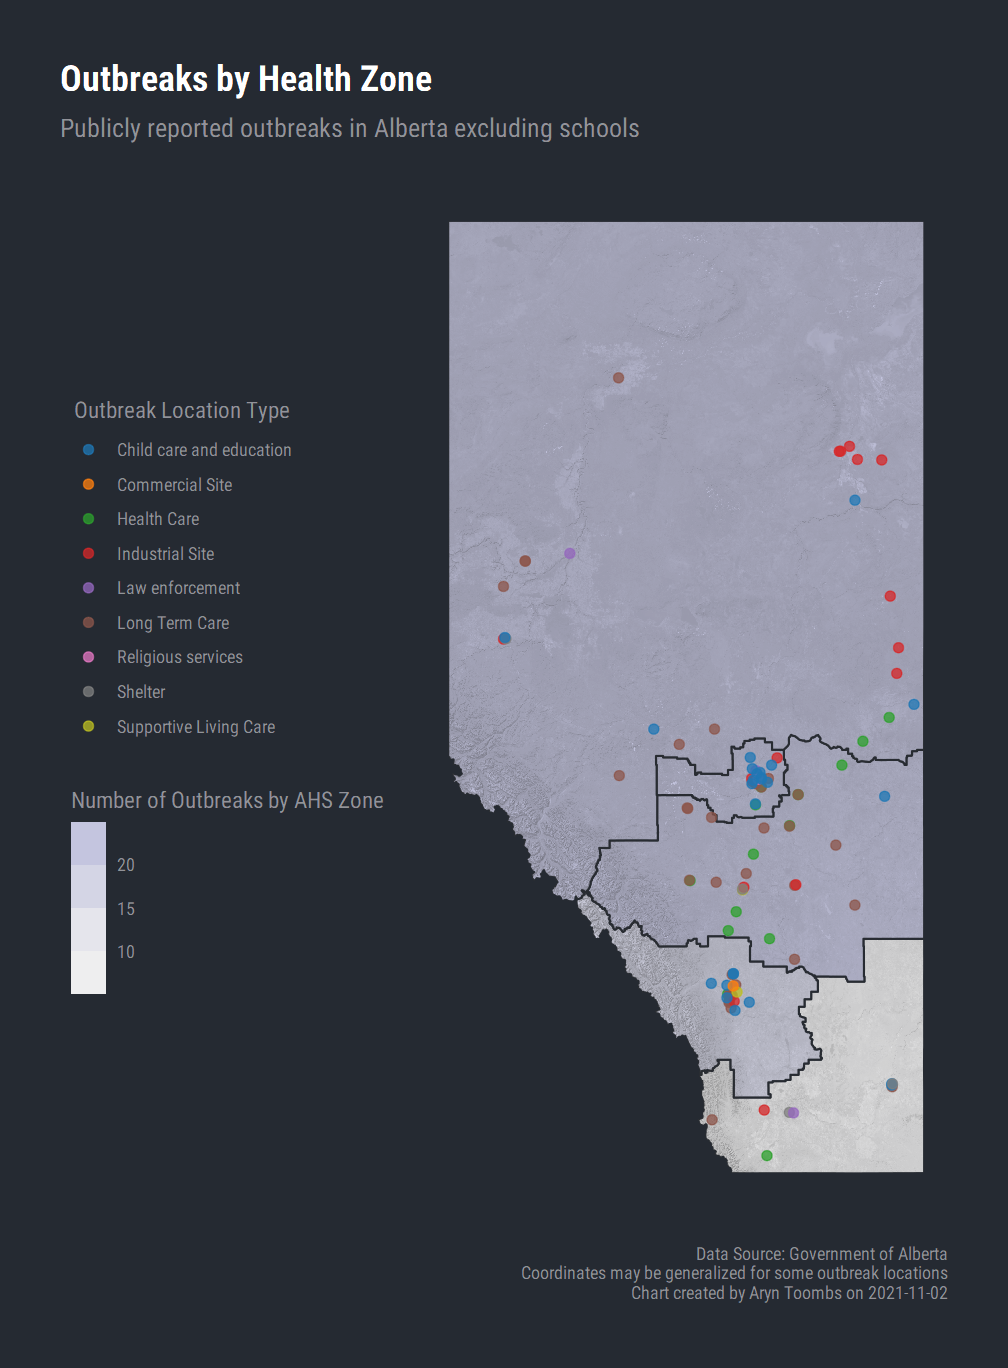
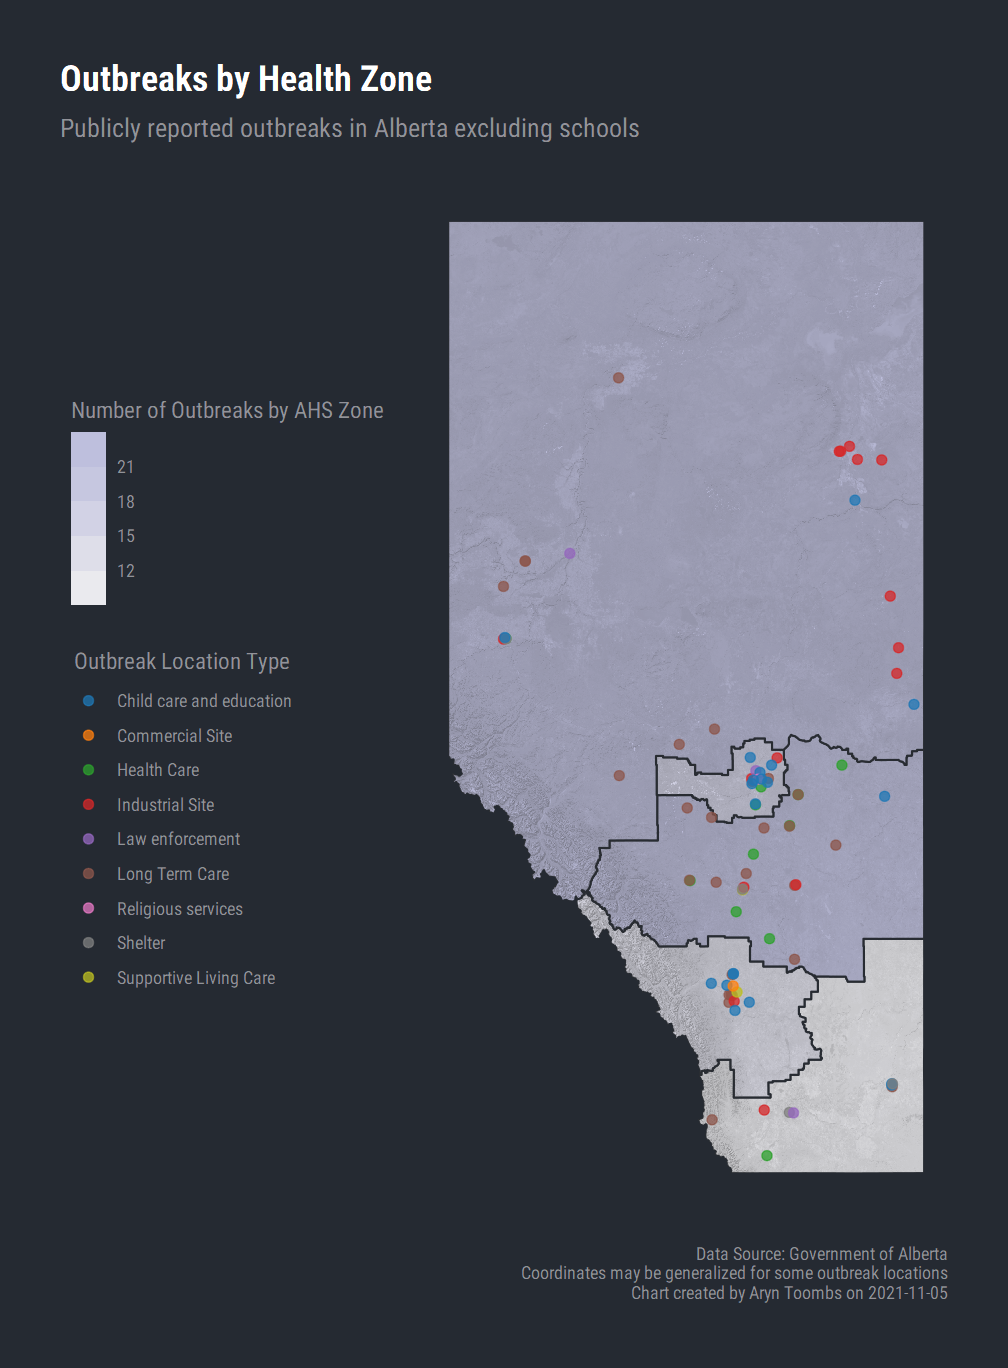
web

diff --git a/outbreaks/index.html b/outbreaks/index.html
@@ -168,7 +168,7 @@
       Calgary Zone
     </div>
     <div class="row box-bottom justify-content-center">
-      <h4>20</h4>
+      <h4>15</h4>
     </div>
   </div>
   <div class="col-sm ml-1 mr-1">
@@ -176,7 +176,7 @@
       Edmonton Zone
     </div>
     <div class="row box-bottom justify-content-center">
-      <h4>22</h4>
+      <h4>17</h4>
     </div>
   </div>
   <div class="col-sm ml-1 mr-1">
@@ -192,7 +192,7 @@
       Central Zone
     </div>
     <div class="row box-bottom justify-content-center">
-      <h4>25</h4>
+      <h4>22</h4>
     </div>
   </div>
   <div class="col-sm ml-1 mr-1">
@@ -200,12 +200,12 @@
       North Zone
     </div>
     <div class="row box-bottom justify-content-center">
-      <h4>24</h4>
+      <h4>22</h4>
     </div>
   </div>
 </div>
 <div class="row mb-3 pr-1 pt-1 justify-content-end">
-  <p class="m-1"><i class="bi bi-info-circle-fill"></i> Covid-19 outbreaks (not including schools, see below) current as of Tue, Nov 02, 2021. AHS non-school outbreak data updated on Tuesdays and Fridays.</p>
+  <p class="m-1"><i class="bi bi-info-circle-fill"></i> Covid-19 outbreaks (not including schools, see below) current as of Fri, Nov 05, 2021. AHS non-school outbreak data updated on Tuesdays and Fridays.</p>
 </div>
   <div class="row pl-3">
     <h4 class="body-display">Outbreak Charts</h4>
